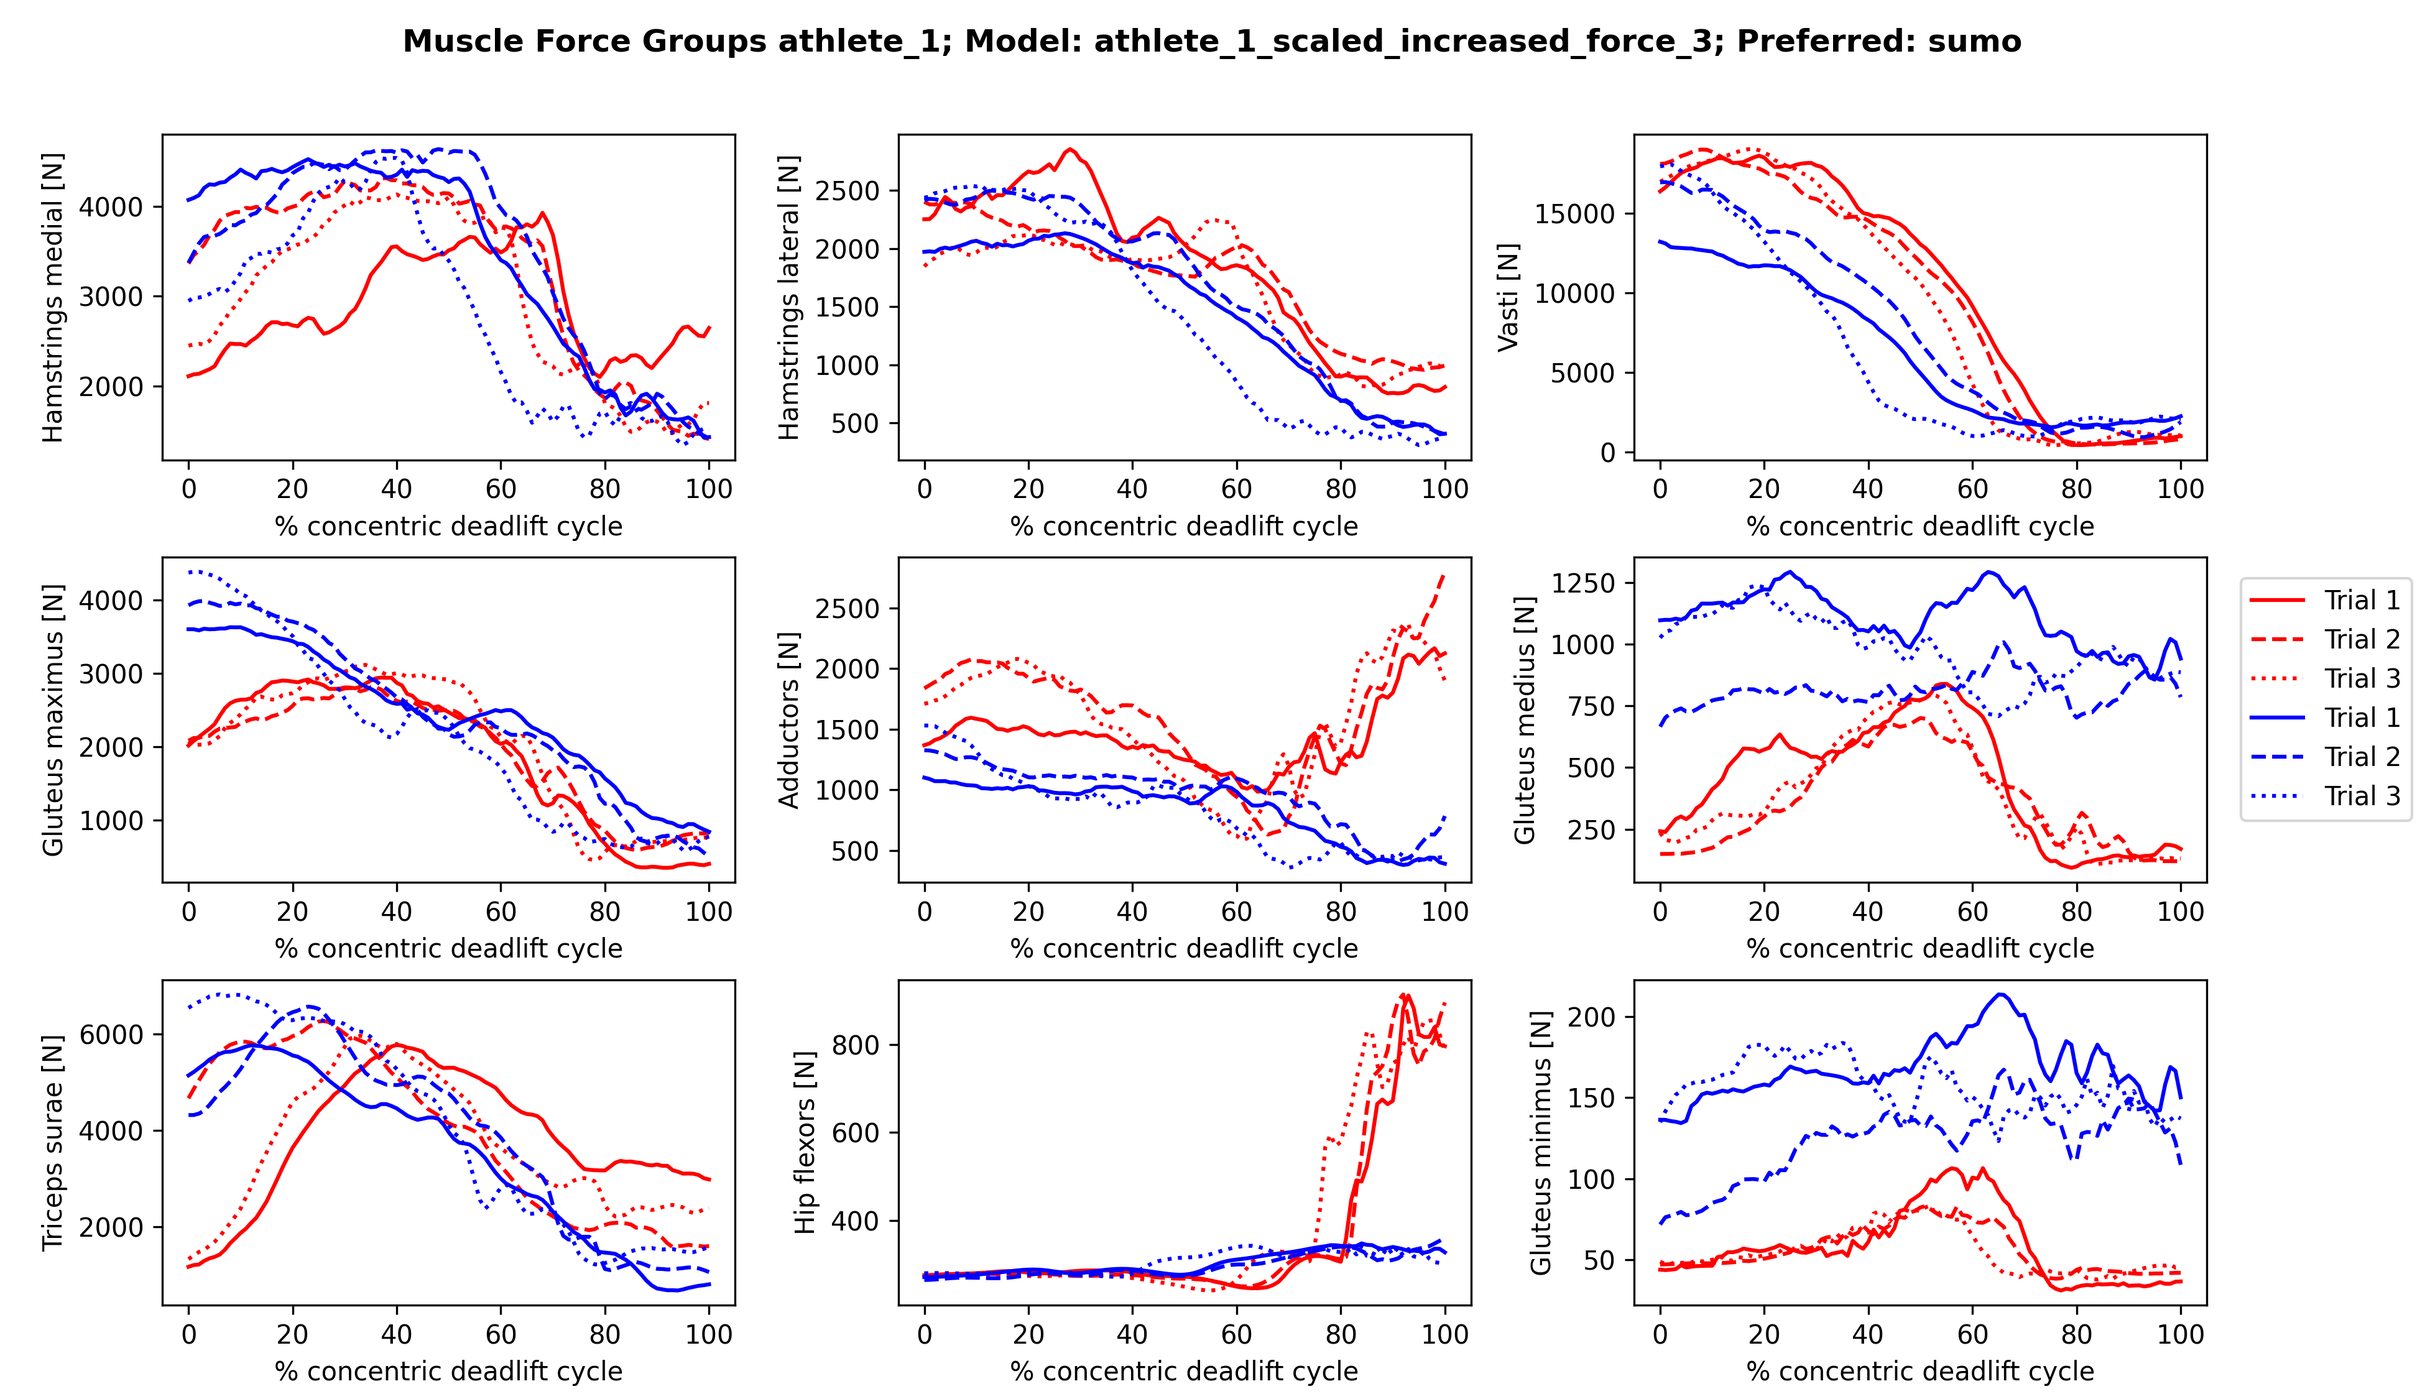
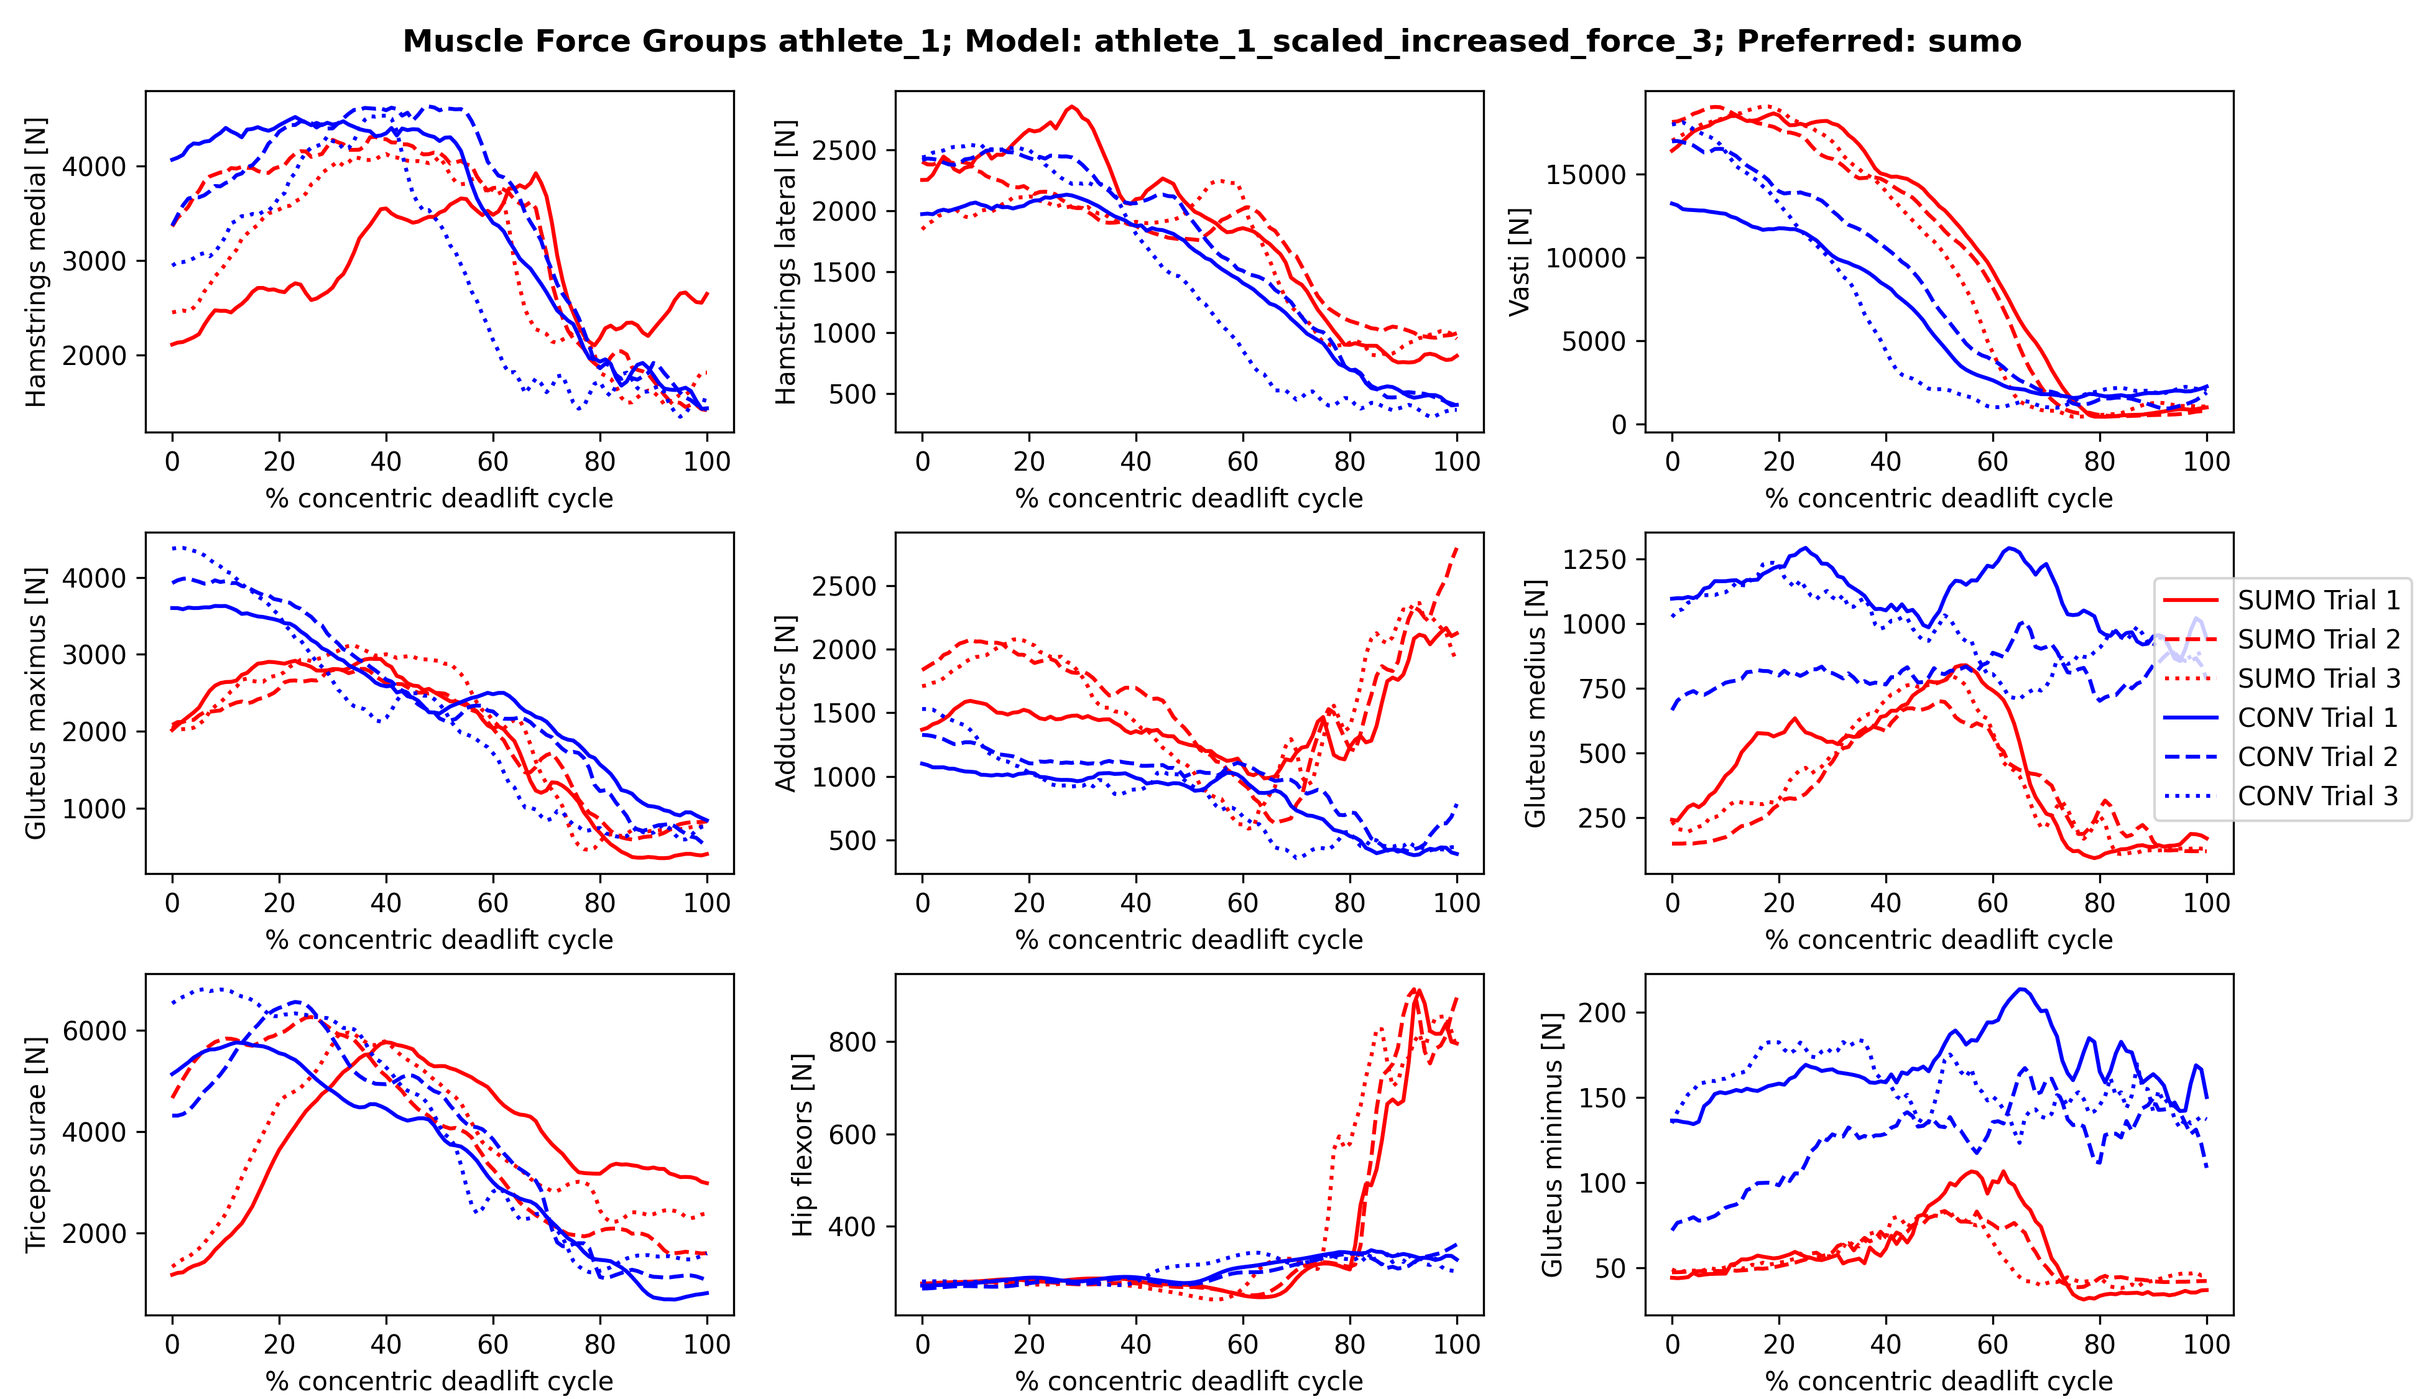
Adjust labels muscle force groups

diff --git a/python/src/muscleForceGroups.py b/python/src/muscleForceGroups.py
@@ -68,8 +68,12 @@ def run_muscle_force_groups(bool):
             figure_prefix = "muscle_force_groups_"
             color_sumo = "red"
             color_conv = "blue"
-            label_sumo = "SUMO"
-            label_conv = "CONV"
+            label_sumo_trial_0 = "SUMO Trial 1"
+            label_sumo_trial_1 = "SUMO Trial 2"
+            label_sumo_trial_2 = "SUMO Trial 3"
+            label_conv_trial_0 = "CONV Trial 1"
+            label_conv_trial_1 = "CONV Trial 2"
+            label_conv_trial_2 = "CONV Trial 3"
             linestyle_trial_1 = "dashed"
             linestyle_trial_2 = "dotted"
             x_label = "% concentric deadlift cycle"
@@ -97,35 +101,35 @@ def run_muscle_force_groups(bool):
             plt.sca(axs[0, 0])
             plt.plot(
                 active_athlete_hamstrings_medial_sumo_force_0,
-                label="Trial 1",
+                label=label_sumo_trial_0,
                 color=color_sumo,
             )
             plt.plot(
                 active_athlete_hamstrings_medial_sumo_force_1,
-                label="Trial 2",
+                label=label_sumo_trial_1,
                 color=color_sumo,
                 linestyle="dashed",
             )
             plt.plot(
                 active_athlete_hamstrings_medial_sumo_force_2,
-                label="Trial 3",
+                label=label_sumo_trial_2,
                 color=color_sumo,
                 linestyle="dotted",
             )
             plt.plot(
                 active_athlete_hamstrings_medial_conv_force_0,  # mean of all trails
-                label="Trial 1",
+                label=label_conv_trial_0,
                 color=color_conv,
             )
             plt.plot(
                 active_athlete_hamstrings_medial_conv_force_1,  # mean of all trails
-                label="Trial 2",
+                label=label_conv_trial_1,
                 color=color_conv,
                 linestyle="dashed",
             )
             plt.plot(
                 active_athlete_hamstrings_medial_conv_force_2,  # mean of all trails
-                label="Trial 3",
+                label=label_conv_trial_2,
                 color=color_conv,
                 linestyle="dotted",
             )
@@ -135,35 +139,35 @@ def run_muscle_force_groups(bool):
             plt.sca(axs[0, 1])
             plt.plot(
                 active_athlete_hamstrings_lateral_sumo_force_0,
-                label="Trial 1",
+                label=label_sumo_trial_0,
                 color=color_sumo,
             )
             plt.plot(
                 active_athlete_hamstrings_lateral_sumo_force_1,
-                label="Trial 2",
+                label=label_sumo_trial_1,
                 color=color_sumo,
                 linestyle="dashed",
             )
             plt.plot(
                 active_athlete_hamstrings_lateral_sumo_force_2,
-                label="Trial 3",
+                label=label_sumo_trial_2,
                 color=color_sumo,
                 linestyle="dotted",
             )
             plt.plot(
                 active_athlete_hamstrings_lateral_conv_force_0,
-                label="Trial 1",
+                label=label_conv_trial_0,
                 color=color_conv,
             )
             plt.plot(
                 active_athlete_hamstrings_lateral_conv_force_1,
-                label="Trial 2",
+                label=label_conv_trial_1,
                 color=color_conv,
                 linestyle="dashed",
             )
             plt.plot(
                 active_athlete_hamstrings_lateral_conv_force_2,
-                label="Trial 3",
+                label=label_conv_trial_2,
                 color=color_conv,
                 linestyle="dotted",
             )
@@ -174,35 +178,35 @@ def run_muscle_force_groups(bool):
             plt.sca(axs[0, 2])
             plt.plot(
                 active_athlete_vasti_sumo_force_0,
-                label="Trial 1",
+                label=label_sumo_trial_0,
                 color=color_sumo,
             )
             plt.plot(
                 active_athlete_vasti_sumo_force_1,
-                label="Trial 2",
+                label=label_sumo_trial_1,
                 color=color_sumo,
                 linestyle="dashed",
             )
             plt.plot(
                 active_athlete_vasti_sumo_force_2,
-                label="Trial 3",
+                label=label_sumo_trial_2,
                 color=color_sumo,
                 linestyle="dotted",
             )
             plt.plot(
                 active_athlete_vasti_conv_force_0,
-                label="Trial 1",
+                label=label_conv_trial_0,
                 color=color_conv,
             )
             plt.plot(
                 active_athlete_vasti_conv_force_1,
-                label="Trial 2",
+                label=label_conv_trial_1,
                 color=color_conv,
                 linestyle="dashed",
             )
             plt.plot(
                 active_athlete_vasti_conv_force_2,
-                label="Trial 3",
+                label=label_conv_trial_2,
                 color=color_conv,
                 linestyle="dotted",
             )
@@ -213,35 +217,35 @@ def run_muscle_force_groups(bool):
             plt.sca(axs[1, 0])
             plt.plot(
                 active_athlete_gluteusmax_sumo_force_0,
-                label="Trial 1",
+                label=label_sumo_trial_0,
                 color=color_sumo,
             )
             plt.plot(
                 active_athlete_gluteusmax_sumo_force_1,
-                label="Trial 2",
+                label=label_sumo_trial_1,
                 color=color_sumo,
                 linestyle=linestyle_trial_1,
             )
             plt.plot(
                 active_athlete_gluteusmax_sumo_force_2,
-                label="Trial 3",
+                label=label_sumo_trial_2,
                 color=color_sumo,
                 linestyle=linestyle_trial_2,
             )
             plt.plot(
                 active_athlete_gluteusmax_conv_force_0,
-                label="Trial 1",
+                label=label_conv_trial_0,
                 color=color_conv,
             )
             plt.plot(
                 active_athlete_gluteusmax_conv_force_1,
-                label="Trial 2",
+                label=label_conv_trial_1,
                 color=color_conv,
                 linestyle=linestyle_trial_1,
             )
             plt.plot(
                 active_athlete_gluteusmax_conv_force_2,
-                label="Trial 3",
+                label=label_conv_trial_2,
                 color=color_conv,
                 linestyle=linestyle_trial_2,
             )
@@ -252,35 +256,35 @@ def run_muscle_force_groups(bool):
             plt.sca(axs[1, 1])
             plt.plot(
                 active_athlete_adductors_sumo_force_0,
-                label="Trial 1",
+                label=label_sumo_trial_0,
                 color=color_sumo,
             )
             plt.plot(
                 active_athlete_adductors_sumo_force_1,
-                label="Trial 2",
+                label=label_sumo_trial_1,
                 color=color_sumo,
                 linestyle=linestyle_trial_1,
             )
             plt.plot(
                 active_athlete_adductors_sumo_force_2,
-                label="Trial 3",
+                label=label_sumo_trial_2,
                 color=color_sumo,
                 linestyle=linestyle_trial_2,
             )
             plt.plot(
                 active_athlete_adductors_conv_force_0,
-                label="Trial 1",
+                label=label_conv_trial_0,
                 color=color_conv,
             )
             plt.plot(
                 active_athlete_adductors_conv_force_1,
-                label="Trial 2",
+                label=label_conv_trial_1,
                 color=color_conv,
                 linestyle=linestyle_trial_1,
             )
             plt.plot(
                 active_athlete_adductors_conv_force_2,
-                label="Trial 3",
+                label=label_conv_trial_2,
                 color=color_conv,
                 linestyle=linestyle_trial_2,
             )
@@ -291,35 +295,35 @@ def run_muscle_force_groups(bool):
             plt.sca(axs[1, 2])
             plt.plot(
                 active_athlete_gluteusmed_sumo_force_0,
-                label="Trial 1",
+                label=label_sumo_trial_0,
                 color=color_sumo,
             )
             plt.plot(
                 active_athlete_gluteusmed_sumo_force_1,
-                label="Trial 2",
+                label=label_sumo_trial_1,
                 color=color_sumo,
                 linestyle=linestyle_trial_1,
             )
             plt.plot(
                 active_athlete_gluteusmed_sumo_force_2,
-                label="Trial 3",
+                label=label_sumo_trial_2,
                 color=color_sumo,
                 linestyle=linestyle_trial_2,
             )
             plt.plot(
                 active_athlete_gluteusmed_conv_force_0,
-                label="Trial 1",
+                label=label_conv_trial_0,
                 color=color_conv,
             )
             plt.plot(
                 active_athlete_gluteusmed_conv_force_1,
-                label="Trial 2",
+                label=label_conv_trial_1,
                 color=color_conv,
                 linestyle=linestyle_trial_1,
             )
             plt.plot(
                 active_athlete_gluteusmed_conv_force_2,
-                label="Trial 3",
+                label=label_conv_trial_2,
                 color=color_conv,
                 linestyle=linestyle_trial_2,
             )
@@ -330,35 +334,35 @@ def run_muscle_force_groups(bool):
             plt.sca(axs[2, 0])
             plt.plot(
                 active_athlete_triceps_surae_sumo_force_0,
-                label="Trial 1",
+                label=label_sumo_trial_0,
                 color=color_sumo,
             )
             plt.plot(
                 active_athlete_triceps_surae_sumo_force_1,
-                label="Trial 2",
+                label=label_sumo_trial_1,
                 color=color_sumo,
                 linestyle=linestyle_trial_1,
             )
             plt.plot(
                 active_athlete_triceps_surae_sumo_force_2,
-                label="Trial 3",
+                label=label_sumo_trial_2,
                 color=color_sumo,
                 linestyle=linestyle_trial_2,
             )
             plt.plot(
                 active_athlete_triceps_surae_conv_force_0,
-                label="Trial 1",
+                label=label_conv_trial_0,
                 color=color_conv,
             )
             plt.plot(
                 active_athlete_triceps_surae_conv_force_1,
-                label="Trial 2",
+                label=label_conv_trial_1,
                 color=color_conv,
                 linestyle=linestyle_trial_1,
             )
             plt.plot(
                 active_athlete_triceps_surae_conv_force_2,
-                label="Trial 3",
+                label=label_conv_trial_2,
                 color=color_conv,
                 linestyle=linestyle_trial_2,
             )
@@ -369,35 +373,35 @@ def run_muscle_force_groups(bool):
             plt.sca(axs[2, 1])
             plt.plot(
                 active_athlete_hip_flexors_sumo_force_0,
-                label="Trial 1",
+                label=label_sumo_trial_0,
                 color=color_sumo,
             )
             plt.plot(
                 active_athlete_hip_flexors_sumo_force_1,
-                label="Trial 2",
+                label=label_sumo_trial_1,
                 color=color_sumo,
                 linestyle=linestyle_trial_1,
             )
             plt.plot(
                 active_athlete_hip_flexors_sumo_force_2,
-                label="Trial 3",
+                label=label_sumo_trial_2,
                 color=color_sumo,
                 linestyle=linestyle_trial_2,
             )
             plt.plot(
                 active_athlete_hip_flexors_conv_force_0,
-                label="Trial 1",
+                label=label_conv_trial_0,
                 color=color_conv,
             )
             plt.plot(
                 active_athlete_hip_flexors_conv_force_1,
-                label="Trial 2",
+                label=label_conv_trial_1,
                 color=color_conv,
                 linestyle=linestyle_trial_1,
             )
             plt.plot(
                 active_athlete_hip_flexors_conv_force_2,
-                label="Trial 3",
+                label=label_conv_trial_2,
                 color=color_conv,
                 linestyle=linestyle_trial_2,
             )
@@ -408,35 +412,35 @@ def run_muscle_force_groups(bool):
             plt.sca(axs[2, 2])
             plt.plot(
                 active_athlete_gluteusmin_sumo_force_0,
-                label="Trial 1",
+                label=label_sumo_trial_0,
                 color=color_sumo,
             )
             plt.plot(
                 active_athlete_gluteusmin_sumo_force_1,
-                label="Trial 2",
+                label=label_sumo_trial_1,
                 color=color_sumo,
                 linestyle=linestyle_trial_1,
             )
             plt.plot(
                 active_athlete_gluteusmin_sumo_force_2,
-                label="Trial 3",
+                label=label_sumo_trial_2,
                 color=color_sumo,
                 linestyle=linestyle_trial_2,
             )
             plt.plot(
                 active_athlete_gluteusmin_conv_force_0,
-                label="Trial 1",
+                label=label_conv_trial_0,
                 color=color_conv,
             )
             plt.plot(
                 active_athlete_gluteusmin_conv_force_1,
-                label="Trial 2",
+                label=label_conv_trial_1,
                 color=color_conv,
                 linestyle=linestyle_trial_1,
             )
             plt.plot(
                 active_athlete_gluteusmin_conv_force_2,
-                label="Trial 3",
+                label=label_conv_trial_2,
                 color=color_conv,
                 linestyle=linestyle_trial_2,
             )
